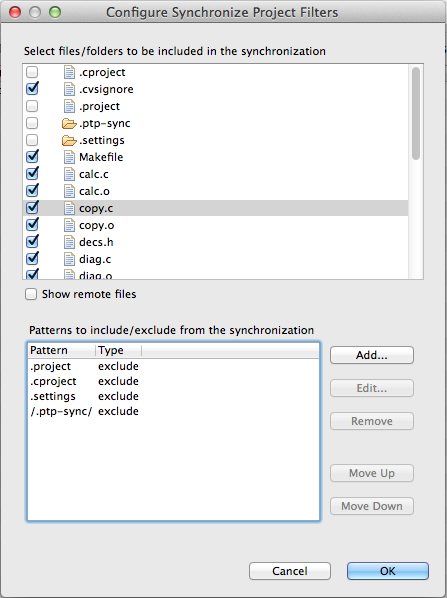
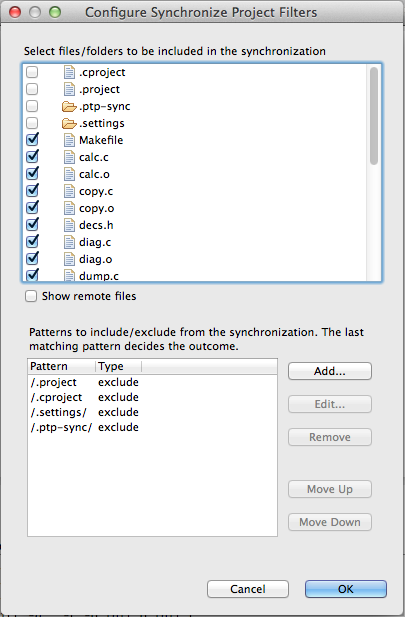
Bug 397588 update sync.html & images with filter dialog changes

Changed region(s): [[0.0, 0.0, 1.0, 0.903], [0.0, 0.9331, 1.0, 1.0], [0.9481, 0.9331, 0.9778, 0.9632]]

diff --git a/core/org.eclipse.ptp.doc.user/html/sync.html b/core/org.eclipse.ptp.doc.user/html/sync.html
@@ -92,7 +92,7 @@ and select the <b>Browse...</b> button or some other communication is required.
 <br></p>
 
 <h2 id="work">Working with a Synchronized Project</h2>
-<p>In Eclipse Kepler, the settings for synchronization and for building have been separated. For the former, "sync configurations" are used and are available in all synchronized projects. These are used mainly to specify where (machine and directory) local files should be synchronized. For building, "build configurations" are used and are only available for synchronized C, C++, or Fortran projects. They are used to configure build parameters, such as the compiler and compiler options. These two configuration types operate mostly independently, and sync'ing or building always uses the current "active" sync or build configuration, respectively.
+<p>In Eclipse Kepler (PTP 7.0), the settings for synchronization and for building have been separated. For the former, <b>sync configurations</b> are used and are available in all synchronized projects. These are used mainly to specify where (machine and directory) local files should be synchronized. For building, <b>build configurations</b> are used and are only available for synchronized C, C++, or Fortran projects. They are used to configure build parameters, such as the compiler and compiler options. These two configuration types operate mostly independently, and sync'ing or building always uses the current <b>active sync configuration</b>  or <b>active build configuration</b>, respectively.
 
 <p>The only dependence is that builds occur, by default, at the location specified by the active sync configuration. Also, you can specify a default build configuration for each sync configuration. When switching to a different sync configuration, its default build configuration is automatically selected. This is only for convenience, so that two settings do not need to be changed when switching to a different remote. You can also change the build configuration independently of the sync configuration. It is common to have multiple types of builds, say a "debug" and a "release" build, for the same source location or even to use the same build configuration for multiple remote locations (sync configurations).
 
@@ -170,7 +170,7 @@ Each part of the dialog updates automatically if the other part is changed, so t
 This allows you to see immediately the effect of adding a new pattern. 
 By default, remote files are not shown. Showing remote files may lead to a slower response time while updating views. 
 Check <b>Show remote files</b> if you wish to view them.
-An error message is printed if the remote system is disconnected.
+An error message is shown if the remote system is disconnected.
 <p>
 <p>To enter a new pattern, select the <b>Add...</b> button. 
 The <b>Add Pattern</b> dialog appears.
@@ -189,17 +189,16 @@ to indicate whether the pattern should be included or excluded in the synchroniz
 <p>
 Patterns are applied in the order given in the patterns area of the 
 <b>Configure Synchronize Project Filters</b> dialog. 
-<!-- FIXME i think this is not true now. new patterns now go at the bottom; last pattern has highest precedence. -->
-New patterns are  placed at the top (highest priority). 
+New patterns are  placed at the bottom (highest precedence). 
 So a file will be excluded or included based on the first matching pattern, or included if no pattern matches. 
 Use the "Move Up" and "Move Down" buttons to change a pattern's priority. 
-If a new pattern is identical to an old pattern and has the same type, the old pattern is removed. 
+If a new pattern is identical to an old pattern, the old pattern is removed. 
 Note that it doesn't matter whether the old pattern was an exclude or include pattern, since the new pattern supersedes it.
 
 <p>For example, to exclude <code>*.o</code> files from synchronization 
 (e.g. they are built on the remote system but you do not want them copied back to the local directory),
 Select the <b>Add...</b> button in the patterns area of the <b>Configure Synchronize Project Filters</b> dialog.
-<p>Type <code>*.o</code> in the pattern field and <b>Exclude</b> for the <b>Pattern Type</b>.
+<p>Type <code>*.o</code> in the pattern field and make sure that <b>Exclude</b> is selected for the <b>Pattern Type</b>.
 <p><img src="images/sync-filter-add-dialog-dot-o.png"></p>
 <p>Then select the <b>OK</b> button.  The new filter will appear in the patterns area of the 
 <b>Configure Synchronize Project Filters</b> dialog, and the <code>*.o</code> files are no longer included in
@@ -246,23 +245,27 @@ A "merge conflict" can occur, in general, when merging two different versions of
 <p><img src="images/sync-mergeConflictDialog.png">
 <p><br></p>
 
-You can open the merge conflict view from this dialog or from <b>Window > Show View > Other..</b> and then <b>Remote Development > Synchronized Merge View</b>. This view shows a list of conflicting files. (You may need to select the project in Project Explorer if the viewer is empty.) Double-click a file to bring up a "compare editor" where differences can be viewed and conflicts resolved. In this editor, the left pane shows the local file, which has been marked up to show conflicts, and the right pane shows the remote file. The "ancestor" file optionally appears above these two panes and can be toggled on or off using the editor's leftmost icon. The ancestor is the last known version of the file from which both local and remote are derived. Also note that right-clicking the file in the viewer brings up a context menu from which certain options can be selected (discussed below).
+You can open the merge conflict view from this dialog or from <b>Window > Show View > Other..</b> and then <b>Remote Development > Synchronized Merge View</b>. 
+The <b>Synchronized Merge View</b> (probably at the bottom of the workbench window)
+shows a list of conflicting files. (You may need to select the project in Project Explorer if the viewer is empty.) 
+Double-click a file in the <b>Synchronized Merge View</b> to bring up a "compare editor" where differences can be viewed and conflicts resolved. In this editor, the left pane shows the local file, which has been marked up to show conflicts, and the right pane shows the remote file. The "ancestor" file optionally appears above these two panes and can be toggled on or off using the editor's leftmost icon. The ancestor is the last known version of the file from which both local and remote are derived. Also note that right-clicking the file in the viewer brings up a context menu from which certain options can be selected (discussed below).
 
 <p><br></p>
 <p><img src="images/sync-mergeConflictResolve.png">
 <p><br></p>
 
-In the compare editor, editing the left pane edits the local version of the file. The compare editor is only for convenience. You can also edit the file from the normal Eclipse text editor. When finished editing, be sure to save the file and then select "Mark as resolved" from the context menu. This version will be copied to the remote site on the next sync. Do the same for each conflicted file. Sync'ing is blocked until all conflicts have been resolved. Instead, the merge-conflict dialog will appear. (Click the checkbox in the merge-conflict dialog to disable it until the merge is resolved.) It is a good idea to sync manually after resolving the merge to push the edits to the remote system.
+In the compare editor, editing the left pane edits the local version of the file. The compare editor is only for convenience. You can also edit the file from the normal Eclipse text editor. When finished editing, be sure to save the file and then select <b>Mark as resolved</b> from the context menu in the <b>Synchronized Merge View</b>. This version will be copied to the remote site on the next sync. Do the same for each conflicted file. Sync'ing is blocked until all conflicts have been resolved. Instead, the merge-conflict dialog will appear. (Click the checkbox in the merge-conflict dialog to disable it until the merge is resolved.) It is a good idea to sync manually after resolving the merge to push the edits to the remote system.
+To sync manually, select the project in the <b>Project Explorer</b> view and click right-mouse, <b>Synchronize > Sync Active Now</b>.
 <p>
-After a merge conflict, the local file has markers and annotation added to show the differing content on the local and remote sites. This is useful for editing the file by itself, but not so much for using the compare editor. Select "Reset to version before merge" in the context menu to revert the local file to its prior version. Now the compare editor will show clearly the differences between local and remote. Sometimes you may simply want the remote version of the file. Selecting "Resolve as remote" makes the local file identical to the remote version and then marks it as resolved.
+After a merge conflict, the local file has markers and annotation added to show the differing content on the local and remote sites. This is useful for editing the file by itself, but not so much for using the compare editor. Select <b>Reset to version before merge</b> in the context menu of the <b>Synchronized Merge View</b> to revert the local file to its prior version. Now the compare editor will show clearly the differences between local and remote. Sometimes you may simply want the remote version of the file. Selecting <b>Resolve as remote</b> makes the local file identical to the remote version and then marks it as resolved.
 
 <h2 id="remote-discovery">Discovering the remote environment (remote includes and code analysis)</h2>
 <h3>Introduction</h3>
 Modern software projects almost always depend on external code, macros, and variables, which are introduced into source code through include directives and various compiler commands and settings. We refer to all of these external elements as the project's "environment." Detecting this environment is a difficult problem but essential in order for Eclipse to provide useful code assistance (bug highlighting, code navigation, etc.) It is difficult because this environment is partially built into the compiler and partially "discovered" by the compiler while building. CDT has a long history of developing <b><i>scanner discovery</i></b> to solve this problem and recently unveiled a redesign of the discovery mechanism. Synchronized projects extends this new redesign so that discovery can reflect the environment of the current remote machine (as specified by the active build configuration). At the moment, only the GCC compiler is supported. Note that CDT still makes available the old method of scanner discovery, but it has not been extended to work with synchronized projects.
 <p>
-The elements discovered by scanner discovery are used by the CDT "indexer" and the CDT "Codan (CODe ANalysis)" tool. The former is a potentially long-running tasks that gathers information about all of the source code components (variables, functions, classes, etc.) Codan then uses this information to analyze and potentially mark up source files with various bug reports and warnings. 
+The elements discovered by scanner discovery are used by the CDT <i>indexer</i> and the CDT <i>Codan (CODe ANalysis)</i> tool. The former is a potentially long-running task that gathers information about all of the source code components (variables, functions, classes, etc.) Codan then uses this information to analyze and potentially mark up source files with various bug reports and warnings. 
 Each of these three components (discovery, indexing, and Codan) run independently and at different times. 
-In addition, the build process may produce markings for compiler errors in the <b>Problems</b> view.
+In addition, the build process may produce markers for compiler errors in the <b>Problems</b> view.
 Codan uses an icon that resembles a bug, which distinguishes it from the more traditional icons used by the build system. (Due to the complexity of analyzing C++, it frequently occurs that programs will compile while still showing Codan markings. This can be due to problems in discovery, indexing, or code analysis.)
 <p>
 <h3>Setup</h3>
@@ -282,7 +285,7 @@ Now, make sure that indexing is enabled and invoke a remote build. In order for 
 <h3>Results</h3>
 The list of discovered paths and macros can be found under the Entries tab on the above page. Note that the connection name is prepended for remote includes (UNC notation). When adding your own entries, you can use this same notation to specify a path on a remote machine or a local path by leaving off the connection name. (Thus, remote configurations can use local paths and vice versa.)
 <p>
-By default, the build output parser discovers entries per file. This can be changed under the provider's tab (see above figure). If discovery is per file, though, the list of includes and macros will be empty if accessed from the project menu or by right-clicking on the project or a folder and selecting "Properties." Instead, right-click on an individual file and select "Properties" to see the entries for that particular file.
+By default, the build output parser discovers entries per file. This can be changed under the <b>Providers</b> tab (see above figure). If discovery is per file, though, the list of includes and macros will be empty if accessed from the project menu or by right-clicking on the project or a folder and selecting <b>Properties.</b> Instead, right-click on an individual file and select <b>Properties</b> to see the entries for that particular file.
 
 <!-- FIXME end not changed to here -->
 <h3 id="prefs">Sync Preferences</h3>
